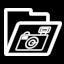
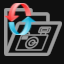
open folder action

diff --git a/gui/python/rating.py b/gui/python/rating.py
@@ -217,6 +217,7 @@ class RateAndCutDialog(QDialog):
             if cutMode:
                 self.cutMode_toolbar = QToolBar(self)
                 self.cutMode_toolbar.setVisible(True)
+
                 self.iconFolderAction = StyledIcon(os.path.join(path, '../../gui/img/folder64.png'))
                 self.folderAction = QAction(self.iconFolderAction, "Select Custom Folder")
                 self.folderAction.setCheckable(True)
@@ -224,6 +225,15 @@ class RateAndCutDialog(QDialog):
                 self.folderAction.triggered.connect(self.onSelectFolder)
                 self.cutMode_toolbar.addAction(self.folderAction)
                 self.cutMode_toolbar.widgetForAction(self.folderAction).setCursor(Qt.PointingHandCursor)
+
+                self.iconOpenFolderAction = StyledIcon(os.path.join(path, '../../gui/img/explorer64.png'))
+                self.openFolderAction = QAction(self.iconOpenFolderAction, "Open Folder")
+                self.openFolderAction.setCheckable(False)
+                self.openFolderAction.setVisible(True)
+                self.openFolderAction.triggered.connect(self.onOpenFolder)
+                self.cutMode_toolbar.addAction(self.openFolderAction)
+                self.cutMode_toolbar.widgetForAction(self.openFolderAction).setCursor(Qt.PointingHandCursor)
+
                 self.outer_main_layout.addWidget(self.cutMode_toolbar)
                 self.cutMode_toolbar.setContentsMargins(0,0,0,0)
 
@@ -889,6 +899,13 @@ class RateAndCutDialog(QDialog):
         finally:
             QApplication.restoreOverrideCursor()
             leaveUITask()
+           
+    def onOpenFolder(self, state):
+        if cutModeFolderOverrideActive:
+            dirPath=cutModeFolderOverridePath
+        else:
+            dirPath=srcfolder=os.path.join(path, "../../../../input/vr/check/rate")
+        subprocess.Popen(["explorer", os.path.abspath(dirPath) ], close_fds=True)
            
     def onSelectFolder(self, state):
         enterUITask()
